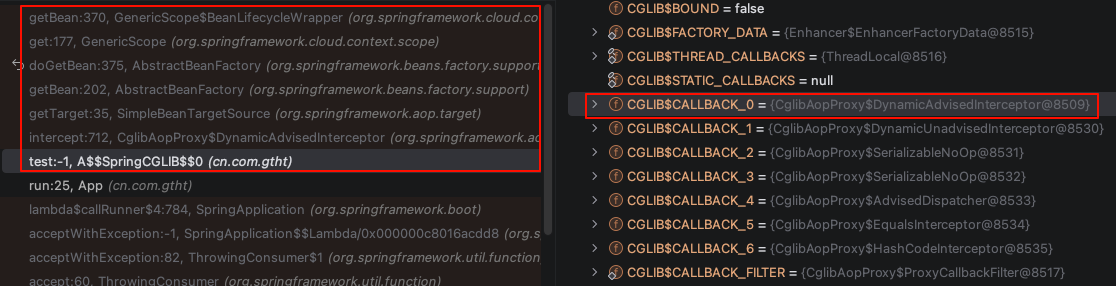
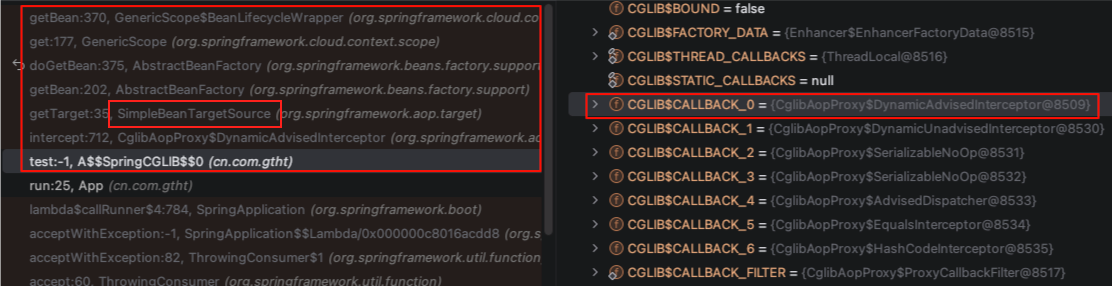
20260818

diff --git a/分布式/kafka/Kafka-线上环境部署与管理.md b/分布式/kafka/Kafka-线上环境部署与管理.md
@@ -1,7 +1,7 @@
 #  Kafka线上环境部署管理及监控
 {docsify-updated}
 
-### Kafka 参数配置
+## Kafka 参数配置
 1. broker 端参数  
    + `broker.id` : Kafka 使用唯一的整数标识来标识集群中的每个 broker。
    + `log.dirs` : 指定了 Kafka 持久化消息的目录。可以设置多个目录，以逗号分隔。单机启动多个 kafka 实例时，需要指定不同的目录。
@@ -10,7 +10,7 @@
    + `delete.topic.enable` : 是否允许 Kafka 删除 topic 。
    + `log.retention.{hours|minutes|ms}`：控制消息数据的留存时间。默认保留7天
    + `log.retention.bytes` : 控制了每个消息日志保存多大数据，超过改参数的分区日志，会被自动清除。
-   + `min.insync.replicas`: 与发布端（prducer)的 acks 参数配合使用。它指定了 broker 端必须在指定数量的副本中持久化成功后，才响应发布端消息发送成功。
+   + `min.insync.replicas`: 与发布端（prducer）的 acks 参数配合使用。它指定了 broker 端必须在指定数量的副本中持久化成功后，才响应发布端消息发送成功。
    + `num.network.threads` : 指定 broker 端实际处理网络请求的线程数。
    + `num.io.threads` ：指定 broker 端用于处理消息的 IO 线程数
 2. topic 级别参数  
@@ -20,29 +20,22 @@
 4. JVM 参数
 5. OS 参数
 
-### Zookeeper 配置文件
+
 ```
-tickTime=2000
-dataDir=/usr/zookeeper/data_dir
-clientPort=2181
-clientPortAddress=0.0.0.0
-initLimit=5
-syncLimit=2
-server.1=zk1:2888:3888
-server.2=zk2:2888:3888
-server.3=zk3:2888:3888
+$ /opt/homebrew/var/lib/kraft-combined-logs/cms.cap.sync-0 git:(main) 0 • +0 -0
+tree
+.
+├── 00000000000000000010.index
+├── 00000000000000000010.log
+├── 00000000000000000010.snapshot
+├── 00000000000000000010.timeindex
+├── leader-epoch-checkpoint
+└── partition.metadata
+
+1 directory, 6 files
 ```
 
-+ `tickTime`: Zookeeper最小时间单位，用于丈量心跳时间和超时时间，单位毫秒。
-+ `dataDir`: Zookeeper 会在内存中保存系统快照，并定期写入该路径指定的文件夹。
-+ `clientPort`: Zookeeper监听客户端连接的端口。
-+ `initLimit`: 指定 follower 结点初始时连接 leader 结点的最大 tick 次数，tick 时间就是 tickTime 配置的时间。
-+ `syncLimit`: 设置 follower 节点与 leader 节点进行同步的最大时间。
-+ `server.X=host:port1:port2` : X 是全局唯一的 ID ，与 myid 文件中的数字一致，后边的 port1 用来使 follower 节点连接 leader 节点， port2 用于 leader 选举。
-
-搭建Zookeeper 集群需要在每个 zookeeper 服务的配置文件中的 dataDir 目录下新建一个 myid 文本文件，在文件中仅仅是一个数字，代表zookeeper 实例的ID。在单机上启动多个 zk 实例时，需要复制多份配置文件，然后在配置文件中需要为每个 server 指定不同的端口，否则会产生端口冲突。`dataDir`也要指定到不同的目录。
-
-### Kafka的启动与管理
+## Kafka的启动与管理
 1. broker 管理  
    1. 启动ZK：`zookeeper-server-start.sh config/zookeeper.properties`
    2. 启动Kafka broker: `kafka-server-start.sh config/server.properties -daemon`
@@ -72,13 +65,13 @@ server.3=zk3:2888:3888
    `kafka-console-consumer.sh --topic quick-start --from-beginning --bootstrap-server localhost:9092`  
    `kafka-console-consumer --topic topic2 --from-beginning --group=test --bootstrap-server localhost:9092`
 
-### Kafka 集群监控
+## Kafka 集群监控
 1. CMAK(原名 Kafka Manager)：https://github.com/yahoo/CMAK
 2. kafka-ui: https://github.com/provectus/kafka-ui?tab=readme-ov-file  
    `docker run -it --name=kafka-ui -p 9090:8080 -e DYNAMIC_CONFIG_ENABLED=true provectuslabs/kafka-ui`
 
 
-### Kafak 负载
+## Kafak 负载
 1. 客户端先连 bootstrap server / F5 VIP kafka.demo.net:9094
 2. 连接成功后，broker 会返回 集群 metadata
 3. metadata 里带的是每个 broker 的 advertised.listeners 地址

diff --git a/spring-cloud/spring-cloud动态刷新bean.md b/spring-cloud/spring-cloud动态刷新bean.md
@@ -60,8 +60,9 @@ public String aa(){
 在重启时无缝刷新 Bean 对于使用 JVM 检查点恢复（如 Project CRaC）运行的应用程序尤为有用。为了实现这一功能，我们现在会实例化一个 RefreshScopeLifecycle Bean，该 Bean 会在重启时触发上下文刷新，从而重新绑定配置属性并刷新所有带有 @RefreshScope 注解的 Bean。您可以通过将 spring.cloud.refresh.on-restart.enabled 设置为 false 来禁用此行为。
 
 
-### 原理
-**1. 代理类的生成**
+## 原理
+
+### 代理类的生成
 
 `ClassPathBeanDefinitionScanner` 会将注解 `@RefreshScope` 的 bean 的 beanDefinition 重写： 
 ```
@@ -124,7 +125,7 @@ public void postProcessBeanDefinitionRegistry(BeanDefinitionRegistry registry) t
 }
 ```
 
-综上所述，当你使用 `@RefreshScope` 注解声明一个 bean 时， Spring 会为其生成代理类 `GenericScope.LockedScopedProxyFactoryBean` 的 bean:
+**综上所述，当你使用 `@RefreshScope` 注解声明一个 bean 时， Spring 会为其生成代理类 `GenericScope.LockedScopedProxyFactoryBean` 的 bean:**
 ```
 GenericScope.LockedScopedProxyFactoryBean -> ScopedProxyFactoryBean
 
@@ -169,7 +170,7 @@ public Object getObject() {
 }
 ```
 
-**2. 动态代理bean增强执行的过程**
+### 动态代理bean增强执行的过程
 
 debug 看调用栈帧：
 <center><img src="pics/refresh.png" alt=""></center>
@@ -181,6 +182,8 @@ public Object getTarget() throws Exception {
     return getBeanFactory().getBean(getTargetBeanName());
 }
 ```
+
+**也就是说，如果一个 bean 是 `@RefreshScope` 注解的，那么每次调用该 bean 的方法时，都会通过代理实例先调用 `SimpleBeanTargetSource` 的 `getTarget()` 方法，该方法会从 `BeanFactory` 中动态实时地获取 bean 实例。**
 
 `BeanFactory` 在生产 bean 时，会根据 beandefinition 的信息来获取对应的 scope，不同的 scope 使用不同的 `Scope` 实现类来生成 bean 对象，一些常见的 `Scope` 实现类如下：
 <center><img src="pics/scope.png" alt=""></center>
@@ -287,6 +290,8 @@ enant=stg, md5=df62e629d31b4a6439a35207e7be57a2, listener=com.alibaba.cloud.naco
 2026-08-11 14:19:42.205 [nacos.client.config.listener.task-0] INFO  c.a.n.client.config.impl.CacheData [,] - [Config-fixed-stg-capnacos.gtjaidemo.net_8848] [notify-ok] dataId=cap-stg.yaml, group=DEFAULT_GROUP,tenant=stg, md5=df62e629d31b4a6439a35
 207e7be57a2, listener=com.alibaba.cloud.nacos.refresh.NacosContextRefresher$1@2ba1faa5 ,job run cost=244 millis.
 ```
+
+`RefreshEventListener` 监听到 `RefreshEvent` 后会刷新 `RefreshScope` 中的缓存，这样当再次调用 `@RefreshScope` 的 bean 时，就会重新创建 bean 实例，这样就实现了动态刷新 bean 的目的。
 
 consul:
 ```

diff --git a/spring/core/core-ioc/spring-精通属性与环境配置.md b/spring/core/core-ioc/spring-精通属性与环境配置.md
@@ -110,7 +110,7 @@ public class DefaultDataConfig {
 ### Properties
 
 #### PropertySource 抽象
-表示“名称/值（name/value）属性对”来源的抽象基类。底层的 `source` 对象可以是任意类型 `T` ，只要它能够封装属性即可。
+表示“名称/值（name/value）属性对”来源的抽象基类。底层的 `source` 对象可以是任意类型 `T` ，只要它能够封装属性k-v即可。
 例如：
 + `java.util.Properties`
 + `java.util.Map`
@@ -190,7 +190,7 @@ public class AppConfig {
  }
 }
 ```
-在 `@PropertySource` 资源位置中出现的任何 `${...}` 占位符都会根据已在环境中注册的属性源集合进行解析，如下例所示：
+在 `@PropertySource` 资源位置中出现的任何 `${someKey:defaultVal}` 占位符都会根据已在环境中注册的属性源集合进行解析，如下例所示：
 ```
 @Configuration
 @PropertySource("classpath:/com/${my.placeholder:default/path}/app.properties")
@@ -205,6 +205,18 @@ public class AppConfig {
 ConfigurationClassPostProcessor
 
 #### 各种配置及其优先级
+| 项目       | Environment Variables | JVM Properties | Command Arguments |
+| -------- | --------------------- | -------------- | ----------------- |
+| 所属层      | OS                    | JVM            | Application       |
+| Linux 参数 | envp                  | JVM内部          | argv              |
+| Java访问   | getenv                | getProperty    | main(args)        |
+| 谁读取      | JVM/应用                | JVM            | 应用                |
+| 生命周期     | 进程                    | JVM            | main调用期间          |
+| 是否Java专属 | 否                     | 是              | 否                 |
+| 是否自动解析   | 否                     | JVM解析-D        | 否                 |
+| 典型用途     | 部署配置                  | JVM/框架配置       | 业务输入              |
+
+
 ```
 ┌──────────────────────────────────────────────┐
 │ Command Line Arguments                       │

diff --git a/spring/_sidebar.md b/spring/_sidebar.md
@@ -11,7 +11,7 @@
     * [Spring 一文精通BeanDefinition注册](/spring/core/core-ioc/spring-精通BeanDefinition注册.md)
     * [Spring 一文精通Springboot 配置属性](/spring/core/core-ioc/spring-精通属性与环境配置.md)
     * [Spring 容器与Bean概览](/spring/core/core-ioc/spring-容器与Bean概览.md)
-    * [Spring IOC-核心原理](/spring/core/core-ioc/spring-ioc-核心原理.md)
+    <!-- * [Spring IOC-核心原理](/spring/core/core-ioc/spring-ioc-核心原理.md) -->
     * [Dependencies](#)
       * [Spring Dependency Injection](/spring/core/core-ioc/dependencies/spring-依赖注入.md)
       * [Spring dependson 与延迟初始化](/spring/core/core-ioc/dependencies/spring-dependson和延迟初始化.md)

diff --git a/os/musl-c/musl-c.md b/os/musl-c/musl-c.md
@@ -3,5 +3,18 @@
 
 > https://wiki.musl-libc.org/
 
+```
 make clean && ./configure --enable-debug CFLAGS="-O0" 保留debug 信息编译，这样编译出来的 obj 文件带有调式信息，debug 的时候能用
 musl-gcc -g -O0 -static hello.c -o hello
+```
+
+交叉编译，在 linux-aarch64 上编译 x86_64 的 musl-gcc :
+```
+sudo dnf install -y gcc-x86_64-linux-gnu binutils-x86_64-linux-gnu
+
+./configure --target=x86_64-linux-gnu --prefix=/usr/local/musl-x86_64 --enable-wrapper=gcc CROSS_COMPILE=x86_64-linux-gnu-
+make -j4
+sudo make install
+
+./tools/install.sh -D obj/musl-gcc /usr/local/musl-x86_64/bin/musl-gcc
+```
